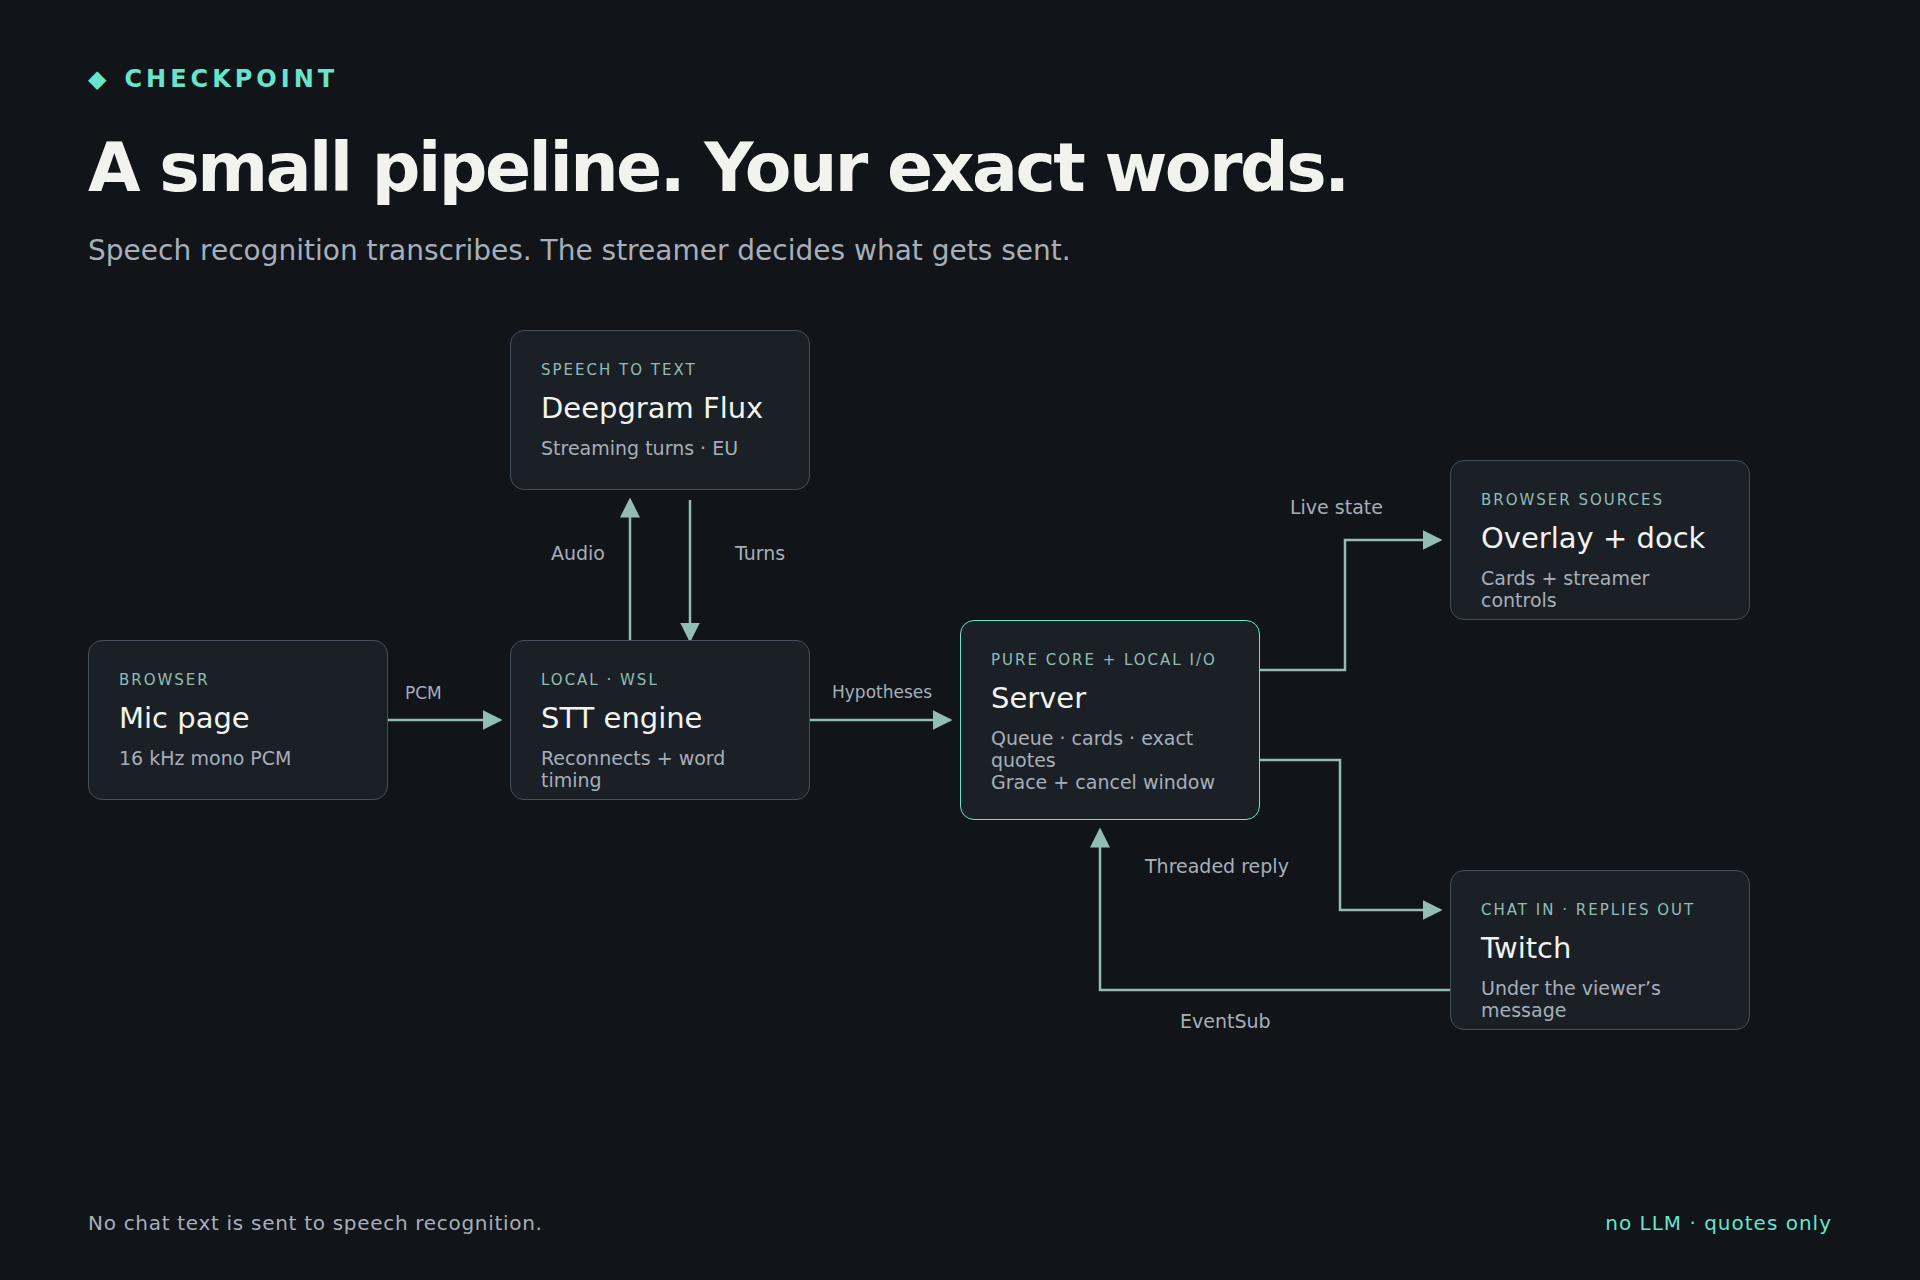
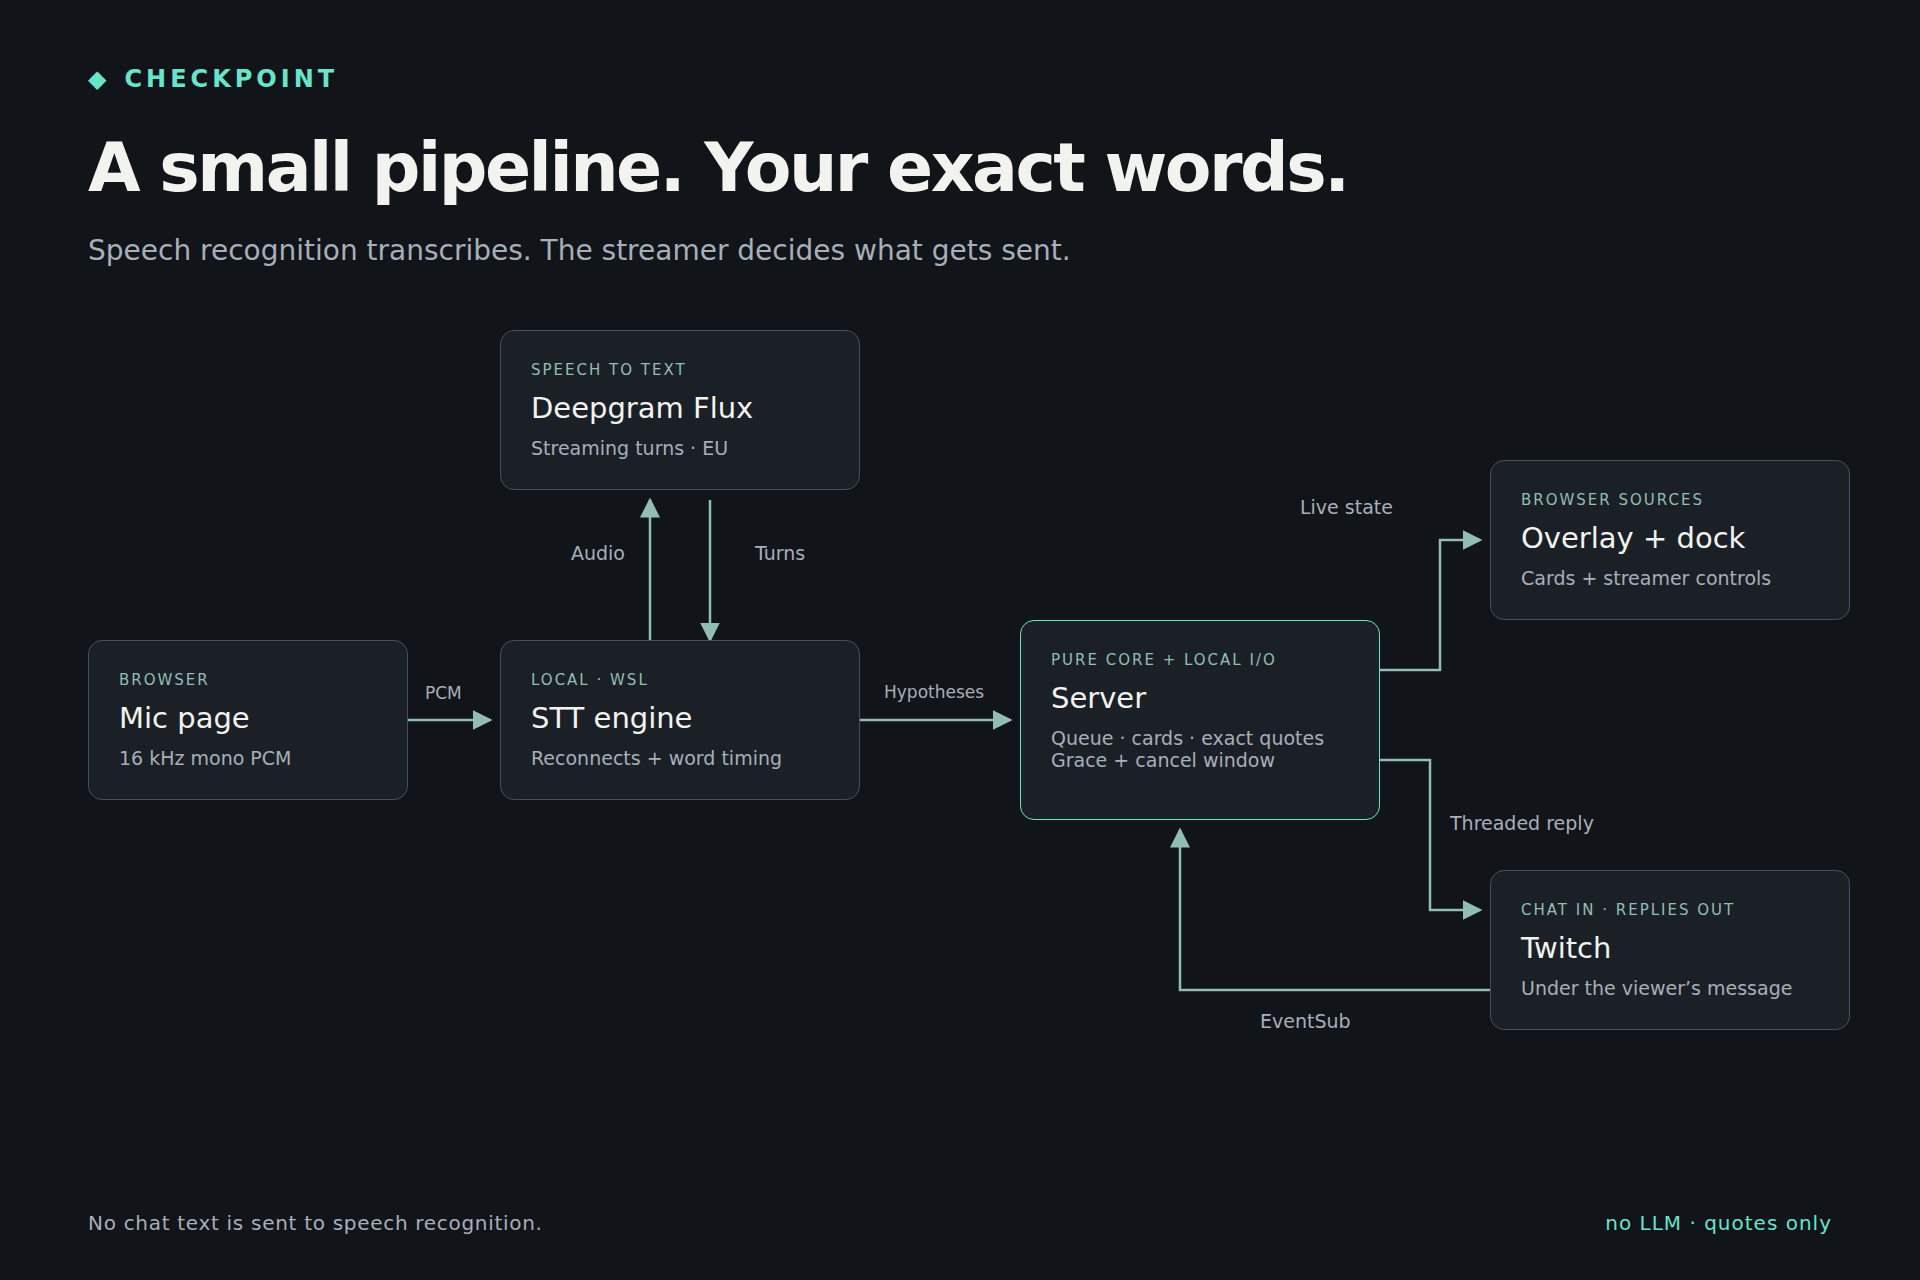
WP7: improve gallery thumbnail readability and connector labels

diff --git a/docs/gallery/index.html b/docs/gallery/index.html
@@ -20,10 +20,10 @@ body {background:var(--cp-background);color:var(--cp-text);font-family:var(--cp-
 .code b {color:var(--cp-accent-muted);font-weight:normal}.code .line {color:var(--cp-border-strong);display:inline-block;width:65px}
 .editor iframe {position:absolute;left:0;top:0;width:1920px;height:890px;border:0;transform:scale(.9166667);transform-origin:top left}
 .dock-copy {position:absolute;left:112px;top:415px;width:770px}.dock-copy h2 {font-size:45px;letter-spacing:-1px;margin:0 0 28px}.feature {margin:32px 0;font-size:25px;line-height:1.5;color:var(--cp-muted)}.feature strong {display:block;color:var(--cp-text);font-size:28px;margin-bottom:5px}.feature strong:before{content:'◆';color:var(--cp-accent);font-size:15px;margin-right:15px}
-.dock-wrap {position:absolute;right:270px;top:158px;width:448px;height:1010px;border:1px solid var(--cp-border-strong);border-radius:var(--cp-radius);overflow:hidden;box-shadow:0 20px 70px color-mix(in srgb,var(--cp-background),transparent 30%)}
-.dock-wrap iframe {width:400px;height:902px;transform:scale(1.12);transform-origin:top left;border:0;background:var(--cp-background)}
-.diagram {position:absolute;left:0;top:290px;width:1920px;height:820px}.node{position:absolute;width:300px;height:160px;padding:30px;border:1px solid var(--cp-border-strong);border-radius:var(--cp-radius);background:var(--cp-surface)}.node .eyebrow{color:var(--cp-accent-muted);font-size:15px;letter-spacing:2px;margin-bottom:12px}.node strong{display:block;font-size:29px;font-weight:500}.node small{display:block;font-size:19px;color:var(--cp-muted);margin-top:12px}.node.server{border-color:var(--cp-accent);height:200px;top:330px}
-.node.mic{left:88px;top:350px}.node.engine{left:510px;top:350px}.node.flux{left:510px;top:40px}.node.server{left:960px}.node.surfaces{left:1450px;top:170px}.node.twitch{left:1450px;top:580px}.diagram svg{position:absolute;inset:0;width:100%;height:100%;overflow:visible}.wire{stroke:var(--cp-accent-muted);stroke-width:2.5;fill:none}.wire-label{fill:var(--cp-muted);font:19px Arial,Helvetica,sans-serif}.protocol{font-size:17px}
+.dock-wrap {position:absolute;right:120px;top:20px;width:578px;height:1180px;border:1px solid var(--cp-border-strong);border-radius:var(--cp-radius);overflow:hidden;box-shadow:0 20px 70px color-mix(in srgb,var(--cp-background),transparent 30%)}
+.dock-wrap iframe {width:400px;height:818px;transform:scale(1.44);transform-origin:top left;border:0;background:var(--cp-background)}
+.diagram {position:absolute;left:0;top:290px;width:1920px;height:820px}.node{position:absolute;width:360px;height:160px;padding:30px;border:1px solid var(--cp-border-strong);border-radius:var(--cp-radius);background:var(--cp-surface)}.node .eyebrow{color:var(--cp-accent-muted);font-size:15px;letter-spacing:2px;margin-bottom:12px}.node strong{display:block;font-size:29px;font-weight:500}.node small{display:block;font-size:19px;color:var(--cp-muted);margin-top:12px}.node.server{border-color:var(--cp-accent);height:200px;top:330px}
+.node.mic{left:88px;top:350px;width:320px}.node.engine{left:500px;top:350px}.node.flux{left:500px;top:40px}.node.server{left:1020px}.node.surfaces{left:1490px;top:170px}.node.twitch{left:1490px;top:580px}.diagram svg{position:absolute;inset:0;width:100%;height:100%;overflow:visible}.wire{stroke:var(--cp-accent-muted);stroke-width:2.5;fill:none}.wire-label{fill:var(--cp-muted);font:19px Arial,Helvetica,sans-serif}.protocol{font-size:17px}
 </style>
 </head><body>
 <div class="brand"><span>◆</span>CHECKPOINT</div>
@@ -48,13 +48,13 @@ body {background:var(--cp-background);color:var(--cp-text);font-family:var(--cp-
  <div class="diagram">
   <svg viewBox="0 0 1920 820" aria-label="Audio, hypotheses, UI state and Twitch delivery">
    <defs><marker id="arrow" markerWidth="8" markerHeight="8" refX="7" refY="4" orient="auto-start-reverse"><path d="M0,0 L8,4 L0,8" fill="var(--cp-accent-muted)"/></marker></defs>
-   <path class="wire" d="M388 430H500" marker-end="url(#arrow)"/><text class="wire-label protocol" x="405" y="409">PCM</text>
-   <path class="wire" d="M630 350V210" marker-end="url(#arrow)"/><path class="wire" d="M690 210V350" marker-end="url(#arrow)"/>
-   <text class="wire-label" x="605" y="270" text-anchor="end">Audio</text><text class="wire-label" x="735" y="270">Turns</text>
-   <path class="wire" d="M810 430H950" marker-end="url(#arrow)"/><text class="wire-label protocol" x="832" y="408">Hypotheses</text>
-   <path class="wire" d="M1260 380H1345V250H1440" marker-end="url(#arrow)"/><text class="wire-label" x="1290" y="224">Live state</text>
-   <path class="wire" d="M1260 470H1340V620H1440" marker-end="url(#arrow)"/><text class="wire-label" x="1145" y="583">Threaded reply</text>
-   <path class="wire" d="M1450 700H1100V540" marker-end="url(#arrow)"/><text class="wire-label" x="1180" y="738">EventSub</text>
+   <path class="wire" d="M408 430H490" marker-end="url(#arrow)"/><text class="wire-label protocol" x="425" y="409">PCM</text>
+   <path class="wire" d="M650 350V210" marker-end="url(#arrow)"/><path class="wire" d="M710 210V350" marker-end="url(#arrow)"/>
+   <text class="wire-label" x="625" y="270" text-anchor="end">Audio</text><text class="wire-label" x="755" y="270">Turns</text>
+   <path class="wire" d="M860 430H1010" marker-end="url(#arrow)"/><text class="wire-label protocol" x="884" y="408">Hypotheses</text>
+   <path class="wire" d="M1380 380H1440V250H1480" marker-end="url(#arrow)"/><text class="wire-label" x="1300" y="224">Live state</text>
+   <path class="wire" d="M1380 470H1430V620H1480" marker-end="url(#arrow)"/><text class="wire-label" x="1450" y="540">Threaded reply</text>
+   <path class="wire" d="M1490 700H1180V540" marker-end="url(#arrow)"/><text class="wire-label" x="1260" y="738">EventSub</text>
   </svg>
   <div class="node mic"><div class="eyebrow">BROWSER</div><strong>Mic page</strong><small>16 kHz mono PCM</small></div>
   <div class="node engine"><div class="eyebrow">LOCAL · WSL</div><strong>STT engine</strong><small>Reconnects + word timing</small></div>

diff --git a/docs/gallery/render.py b/docs/gallery/render.py
@@ -121,6 +121,9 @@ def capture(page, base, name, target):
         frame.wait_for_function("window.checkpointReady === true")
         frame.evaluate("document.fonts.ready")
     if name == "overlay-answer":
+        page.frames[1].add_style_tag(
+            content="#stage { transform: scale(1.3); transform-origin: bottom right; }"
+        )
         page.frame_locator("iframe").locator("#stamp").wait_for(state="visible")
     page.screenshot(path=str(target), animations="disabled")
 
